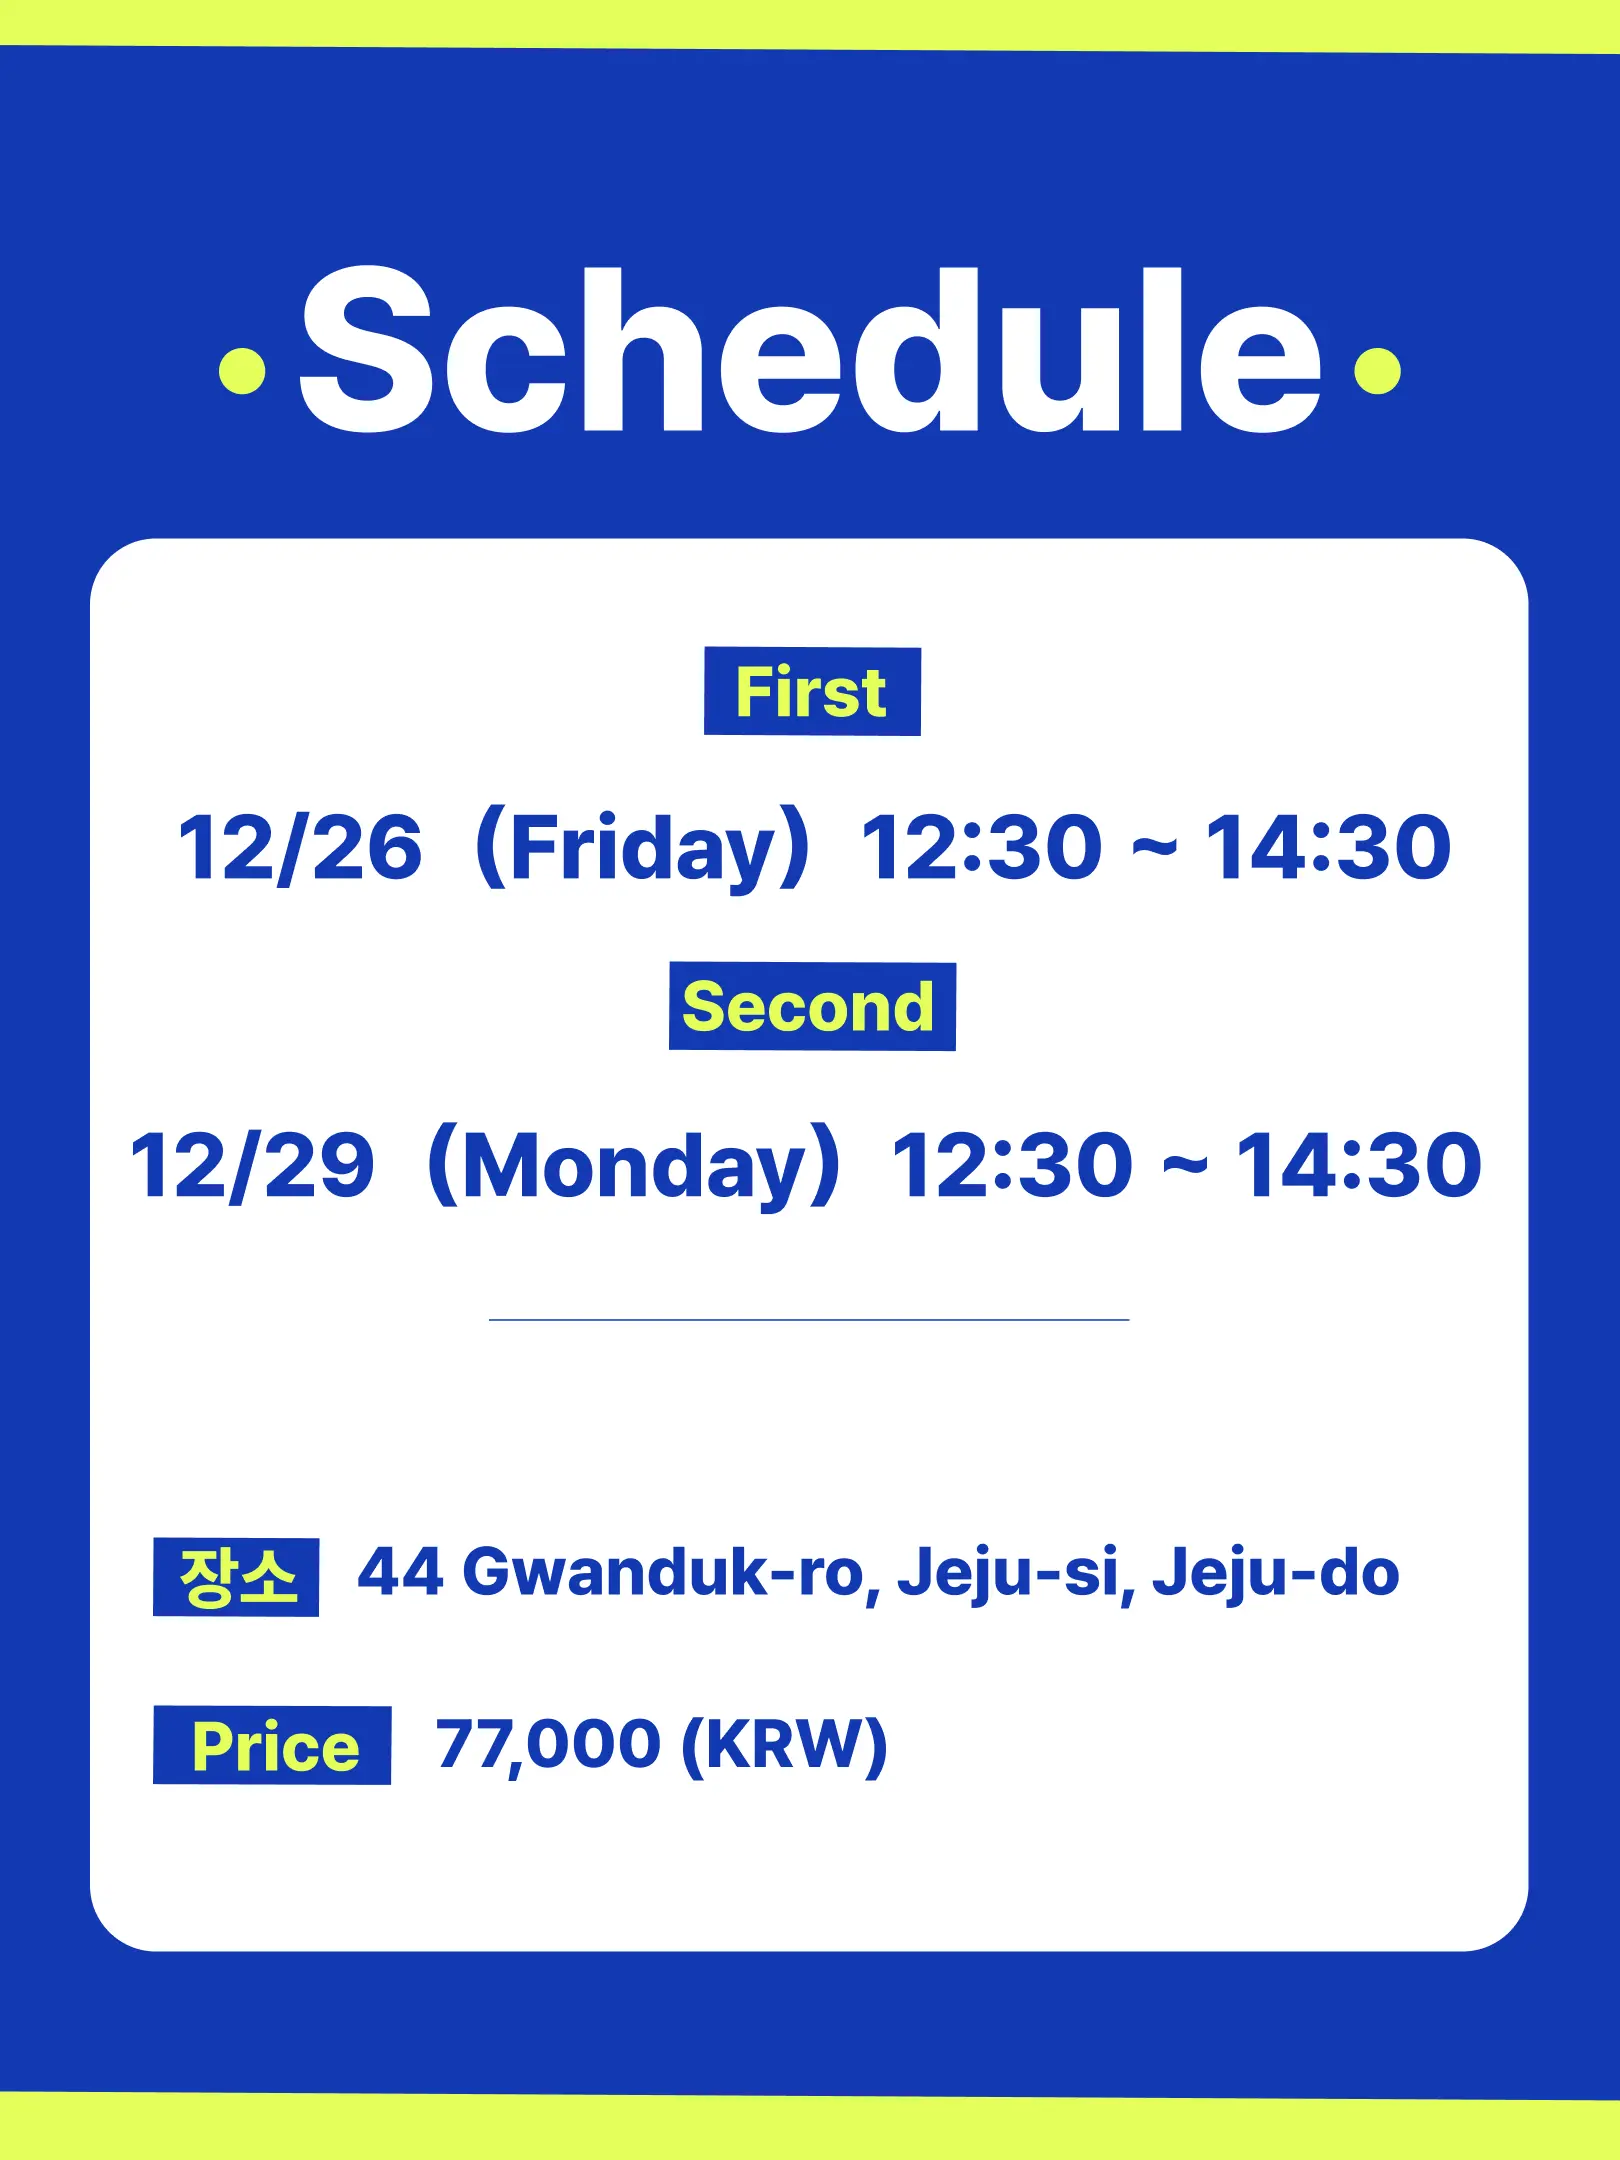
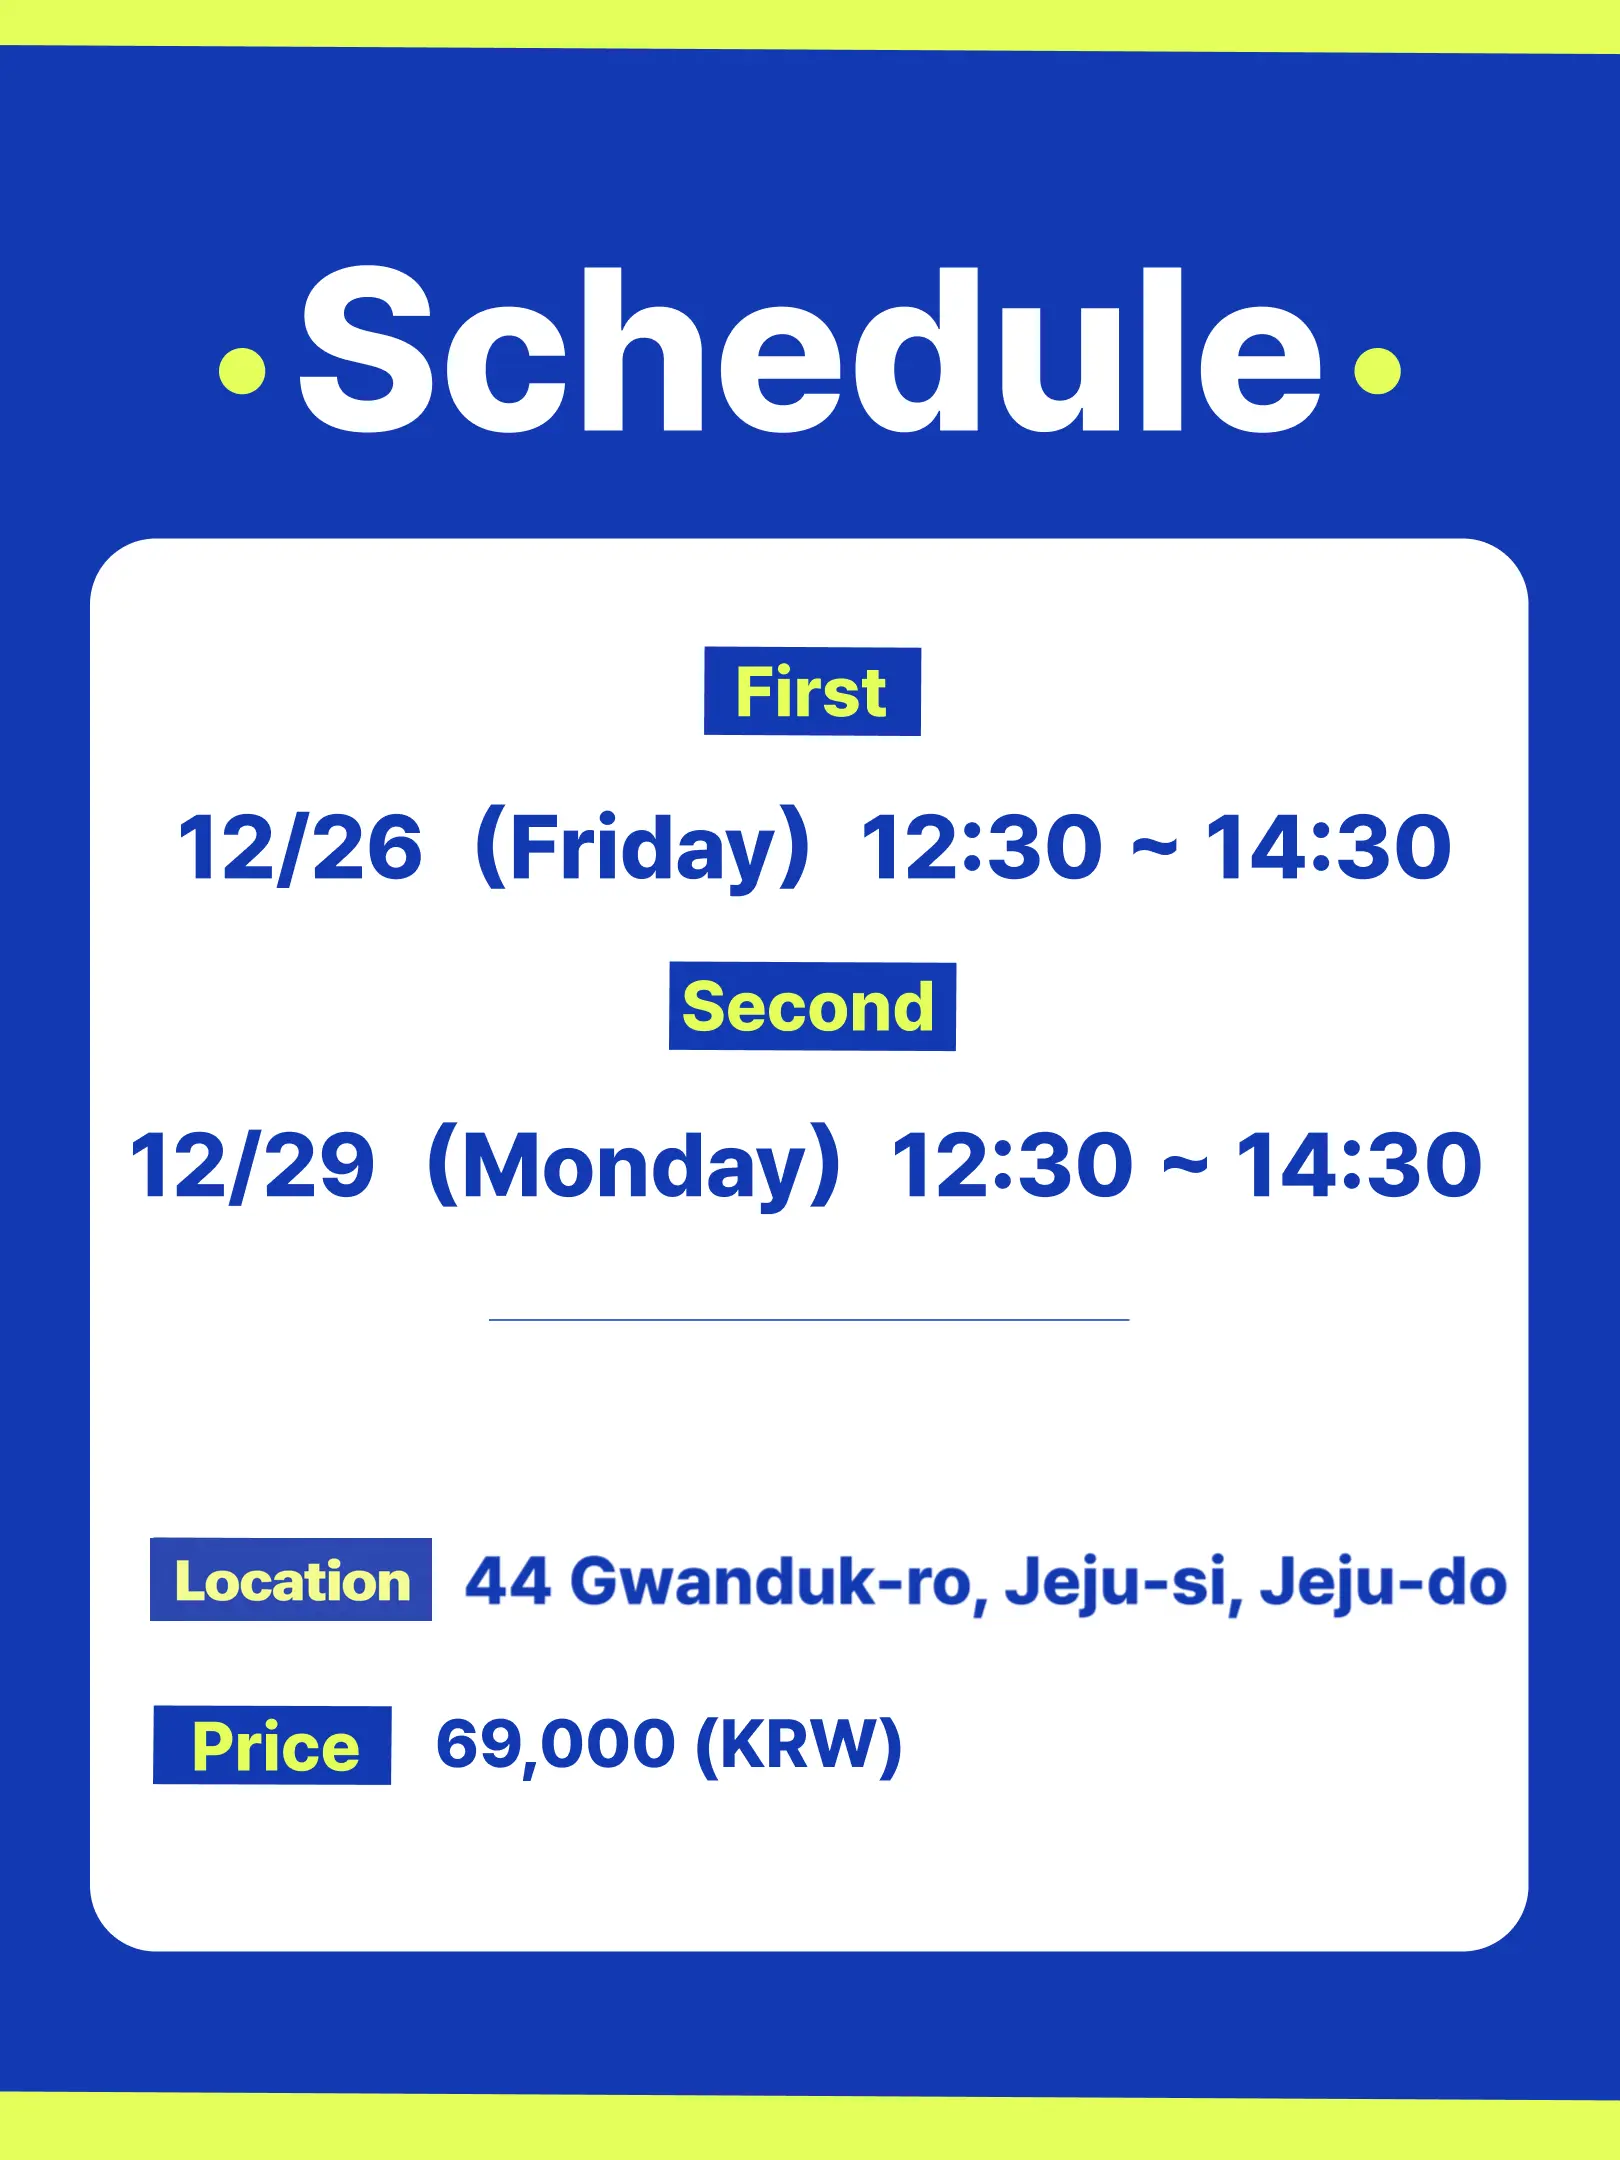
fix(poster): 비용 정보 및 이미지 수정 #더해보다-콜라보/64

Changed region(s): [[0.0926, 0.7134, 0.9259, 0.7755], [0.2778, 0.7755, 0.5556, 0.8375]]

diff --git a/src/app/jeju-huntrix-cooking/page.tsx b/src/app/jeju-huntrix-cooking/page.tsx
@@ -29,7 +29,7 @@ const pageData = {
     },
     {
       "title": "Schedule & Information",
-      "content": "Session 1: Dec 26 (Fri) 12:30 - 14:30\nSession 2: Dec 29 (Mon) 12:30 - 14:30\n\nRegistration Deadline: Dec 19 (Fri) - First come, first served\nLocation: Jeju Communication Center 5F Shared Kitchen\nFee: 77,000 KRW\nLanguage: Korean with Chinese interpretation",
+      "content": "Session 1: Dec 26 (Fri) 12:30 - 14:30\nSession 2: Dec 29 (Mon) 12:30 - 14:30\n\nRegistration Deadline: Dec 19 (Fri) - First come, first served\nLocation: Jeju Communication Center 5F Shared Kitchen\nFee: 69,000 KRW\nLanguage: Korean with Chinese interpretation",
       "image": "/images/cooking/cooking3.webp",
       "layout": "left"
     },
